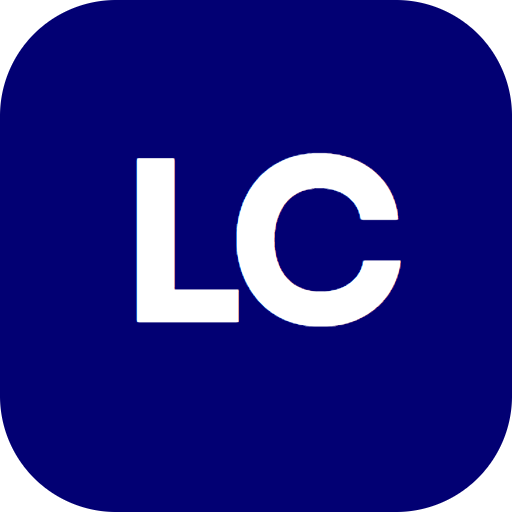
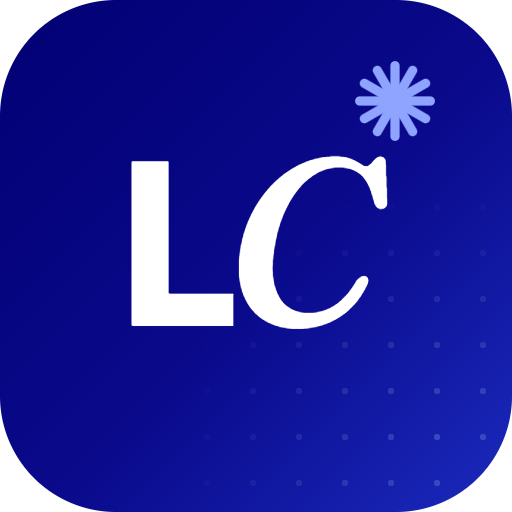
Give the LC monogram real brand character and soften the hero ghost
- Logo redesigned: Sora Bold L with a Fraunces Italic C (the site
  typographic duality), the signature asterisk sparking off the C,
  navy-to-blue gradient tile and the dot-grid texture in one corner
- Hero ghost mark uses the same mixed letterforms and drops from 12px
  to 8px blur so the letterforms actually read

diff --git a/src/components/Hero.tsx b/src/components/Hero.tsx
@@ -17,13 +17,15 @@ export default function Hero() {
         className="absolute -top-40 right-[-10%] h-[480px] w-[480px] rounded-full bg-gradient-to-b from-navy/10 to-mint blur-3xl"
       />
 
-      {/* ghost monogram — blurred under the dot grid, so the cursor
+      {/* ghost monogram — same letterforms as the logo (Sora L, Fraunces
+          italic C), softly blurred under the dot grid so the cursor
           reveals the dots right on top of it */}
       <span
         aria-hidden
-        className="pointer-events-none absolute right-[2%] top-1/2 hidden -translate-y-1/2 select-none font-display text-[24rem] font-bold leading-none tracking-tighter text-navy/[0.06] blur-md lg:block"
+        className="pointer-events-none absolute right-[2%] top-1/2 hidden -translate-y-1/2 select-none font-display text-[24rem] font-bold leading-none tracking-tighter text-navy/[0.06] blur-sm lg:block"
       >
-        LC
+        L
+        <span className="font-accent font-medium italic">C</span>
       </span>
 
       {/* cursor-revealed dot grid (jocaibe technique, navy on light) */}

diff --git a/AGENTS.md b/AGENTS.md
@@ -27,7 +27,7 @@ Mix of two references — colors from one, animation techniques from the other:
 
 **Tech section (added 2026-07-06, effect inherited from the old Portffolio repo's Technologies.jsx):** `#tech` between Work and About, bg-sage. 14 CV skills as brand-colored react-icons (Simple Icons — note: no Playwright icon exists, Cypress used instead). TechBadge client component: staggered slide-in from the left (curtain, index*0.07s delay) + grayscale→color on arrival + infinite desynced bobbing (old repo's iconVariants pattern). CV lives at `public/jose-luis-castaneda-leon-cv.pdf`; source of truth for career data.
 
-**LC monogram (added 2026-07-06):** logo is the letters LC in Sora Bold on a navy rounded tile. Favicon via App Router convention: `src/app/icon.png` (512px, transparent corners; default favicon.ico removed) — regenerate with scratchpad logo.html + puppeteer if the brand changes. A ghost version (plain text LC, text-navy/[0.06], blur-md, 24rem, lg+ only) sits in the hero between the gradient blob and the DotGrid, so the cursor reveals dots on top of it.
+**LC monogram (redesigned 2026-07-06):** the logo encodes the brand — Sora Bold "L" + Fraunces Italic "C" (the site's typographic duality), the signature asterisk sparking off the C in #8fa4ff, on a navy→#2743e3 gradient tile with the dot-grid texture masked into the lower-right corner. Favicon via App Router convention: `src/app/icon.png` (512px, transparent corners; default favicon.ico removed) — regenerate with scratchpad logo.html + puppeteer if the brand changes. A ghost version (text with the same mixed letterforms, text-navy/[0.06], blur-sm = 8px in Tailwind v4, 24rem, lg+ only) sits in the hero between the gradient blob and the DotGrid, so the cursor reveals dots on top of it.
 
 **Hero name effects (jocaibe parity, added 2026-07-06):** the H1 is now the full name (statement moved into the paragraph). MagneticLetters: per-letter gaussian proximity scale (dock effect, max 1.22 under cursor, 90px radius; also on the navbar logo at radius 36). DotGrid: navy dot matrix revealed through a spring-trailed radial mask around the cursor, self-attaches listeners to its parent section. Both no-op under reduced motion.
 